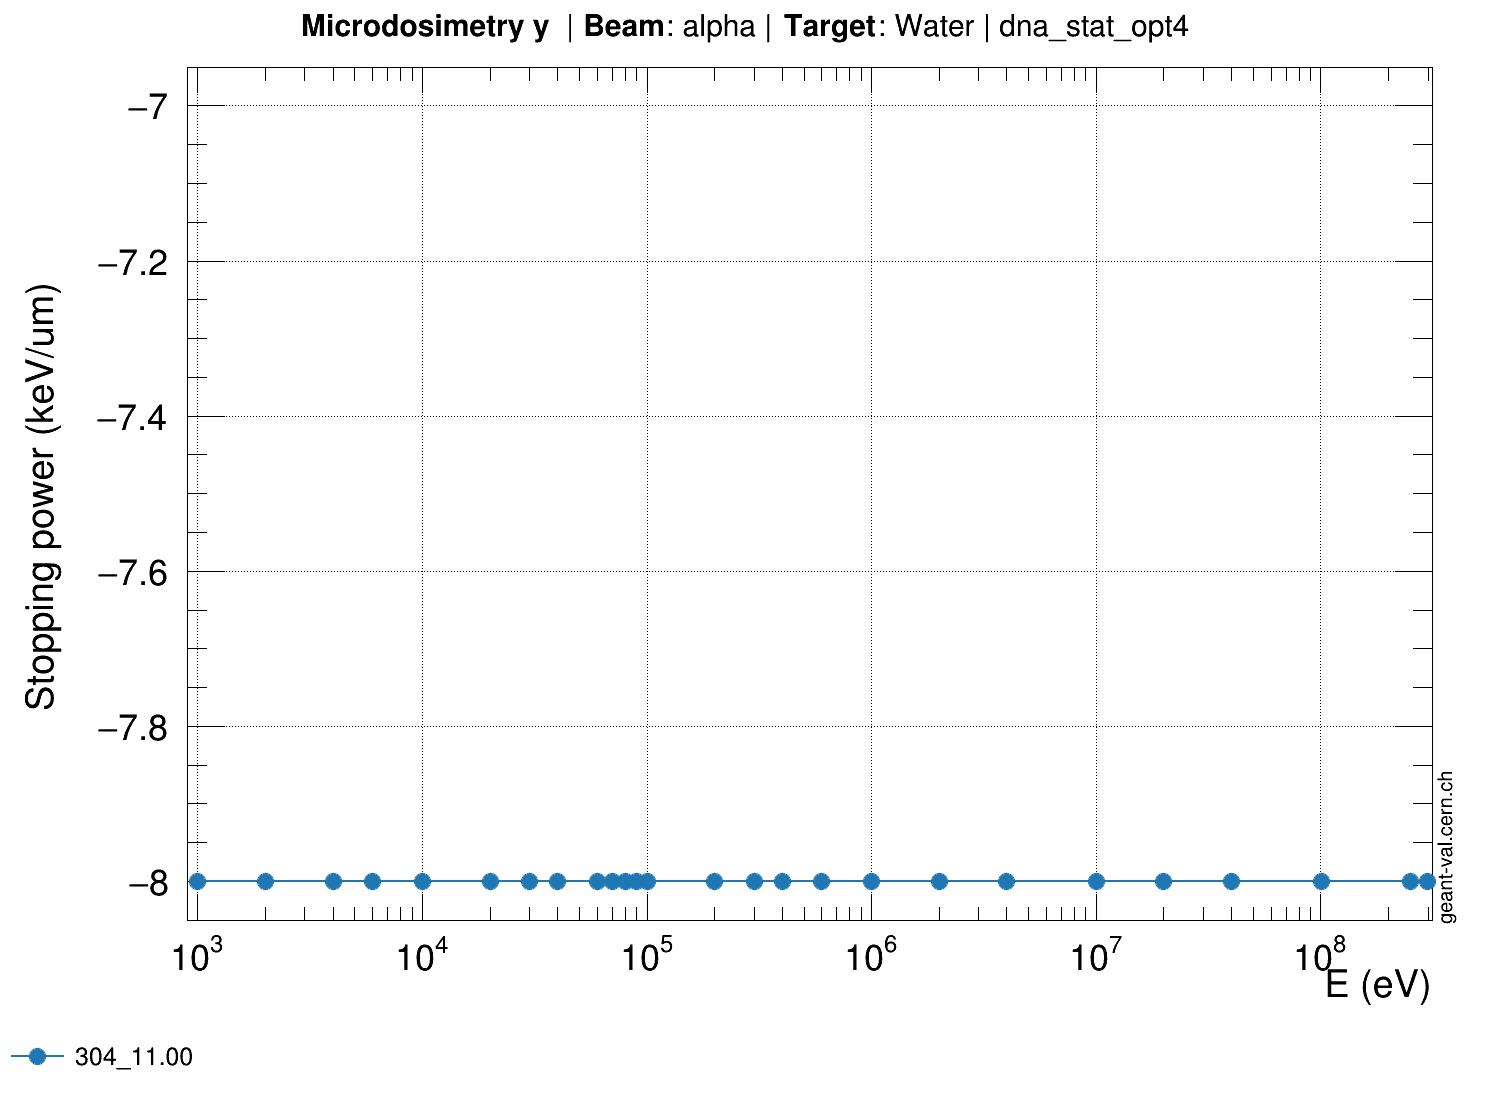
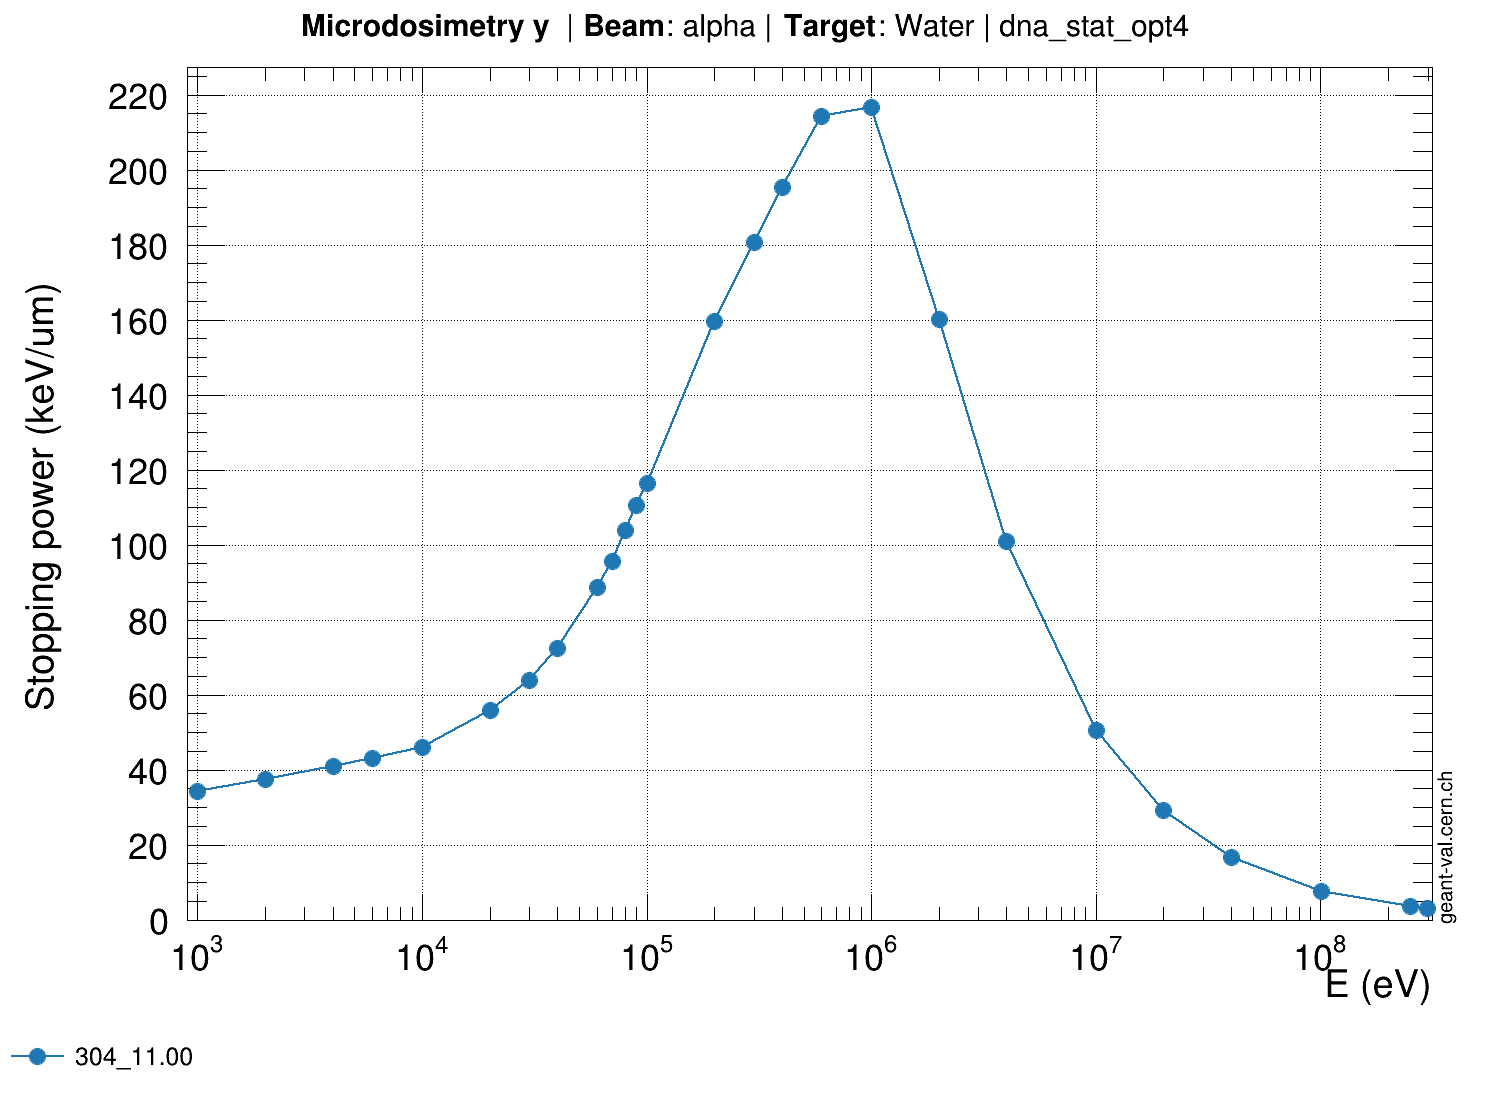
jeu. mars 16 17:08:19 CET 2023

diff --git a/assets/OUTPUTJSON/geant4/304_11.00/x86_64/spower/alpha.conf.c b/assets/OUTPUTJSON/geant4/304_11.00/x86_64/spower/alpha.conf.c
@@ -35,152 +35,32 @@ double gvp_id-1_x[26] = {
   2.99e+08
 };
 double gvp_id-1_y[26] = {
-  -8,
-  -8,
-  -8,
-  -8,
-  -8,
-  -8,
-  -8,
-  -8,
-  -8,
-  -8,
-  -8,
-  -8,
-  -8,
-  -8,
-  -8,
-  -8,
-  -8,
-  -8,
-  -8,
-  -8,
-  -8,
-  -8,
-  -8,
-  -8,
-  -8,
-  -8
-};
-double gvp_id-1_xerrors[26] = {
-  0,
-  0,
-  0,
-  0,
-  0,
-  0,
-  0,
-  0,
-  0,
-  0,
-  0,
-  0,
-  0,
-  0,
-  0,
-  0,
-  0,
-  0,
-  0,
-  0,
-  0,
-  0,
-  0,
-  0,
-  0,
-  0
-};
-double gvp_id-1_yerrors[26] = {
-  0,
-  0,
-  0,
-  0,
-  0,
-  0,
-  0,
-  0,
-  0,
-  0,
-  0,
-  0,
-  0,
-  0,
-  0,
-  0,
-  0,
-  0,
-  0,
-  0,
-  0,
-  0,
-  0,
-  0,
-  0,
-  0
-};
-// Tool:               GEANT4
-// Version:            304_11.00
-// Model:              dna_stat_opt4
-// Observable:         microdosimetry y
-// Target:             Water
-// Beam Particle:      alpha
-// Secondary Particle: None
-
-double gvp_id-1_x[26] = {
-  1000,
-  2000,
-  4000,
-  6000,
-  10000,
-  20000,
-  30000,
-  40000,
-  60000,
-  70000,
-  80000,
-  90000,
-  100000,
-  200000,
-  300000,
-  400000,
-  600000,
-  1e+06,
-  2e+06,
-  4e+06,
-  1e+07,
-  2e+07,
-  4e+07,
-  1.01e+08,
-  2.5e+08,
-  2.99e+08
-};
-double gvp_id-1_y[26] = {
-  -8,
-  -8,
-  -8,
-  -8,
-  -8,
-  -8,
-  -8,
-  -8,
-  -8,
-  -8,
-  -8,
-  -8,
-  -8,
-  -8,
-  -8,
-  -8,
-  -8,
-  -8,
-  -8,
-  -8,
-  -8,
-  -8,
-  -8,
-  -8,
-  -8,
-  -8
+  34.4107,
+  37.6174,
+  40.975,
+  43.1359,
+  46.1481,
+  55.9598,
+  63.9211,
+  72.4386,
+  88.8021,
+  95.6552,
+  103.792,
+  110.48,
+  116.535,
+  159.535,
+  180.635,
+  195.389,
+  214.307,
+  216.731,
+  160.177,
+  100.885,
+  50.4874,
+  29.1298,
+  16.6638,
+  7.76518,
+  3.62075,
+  3.08867
 };
 double gvp_id-1_xerrors[26] = {
   0,
